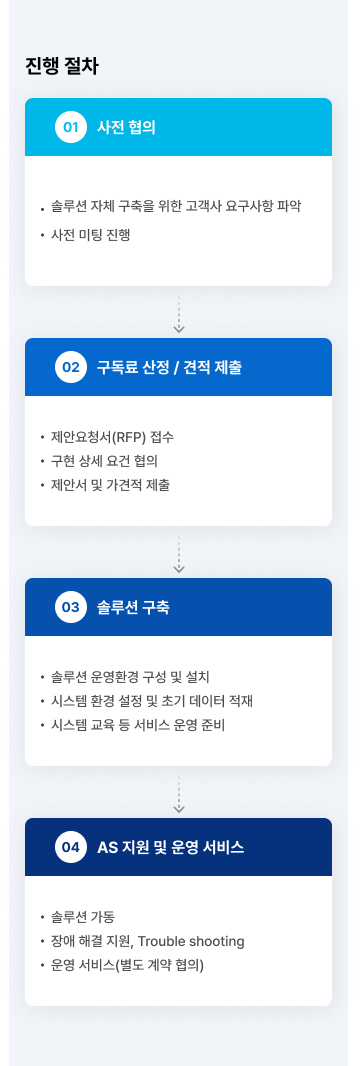
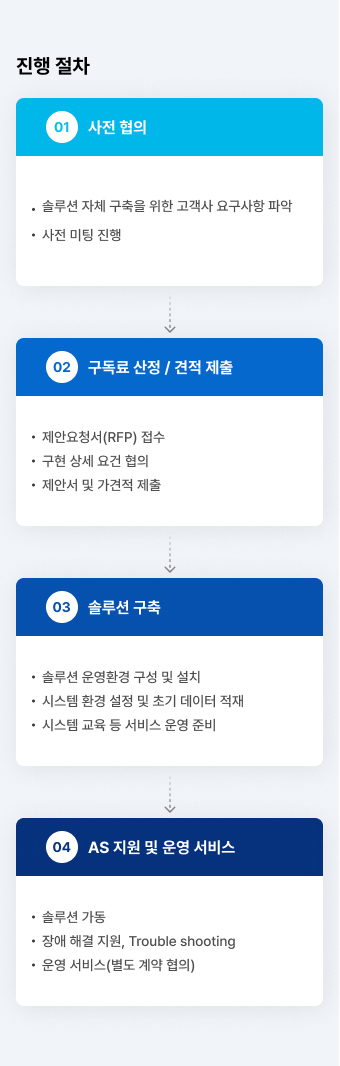
last

diff --git a/src/assets/scss/_layout.scss b/src/assets/scss/_layout.scss
@@ -337,10 +337,10 @@ body {
 							}
 						}
 						+.section-body {
-							margin-top: 4rem;
+							margin-top: 6.4rem;
 
 							@include mobile {
-								margin-top: 2.5rem;
+								margin-top: 4rem;
 							}
 						}
 						.section-summary {
